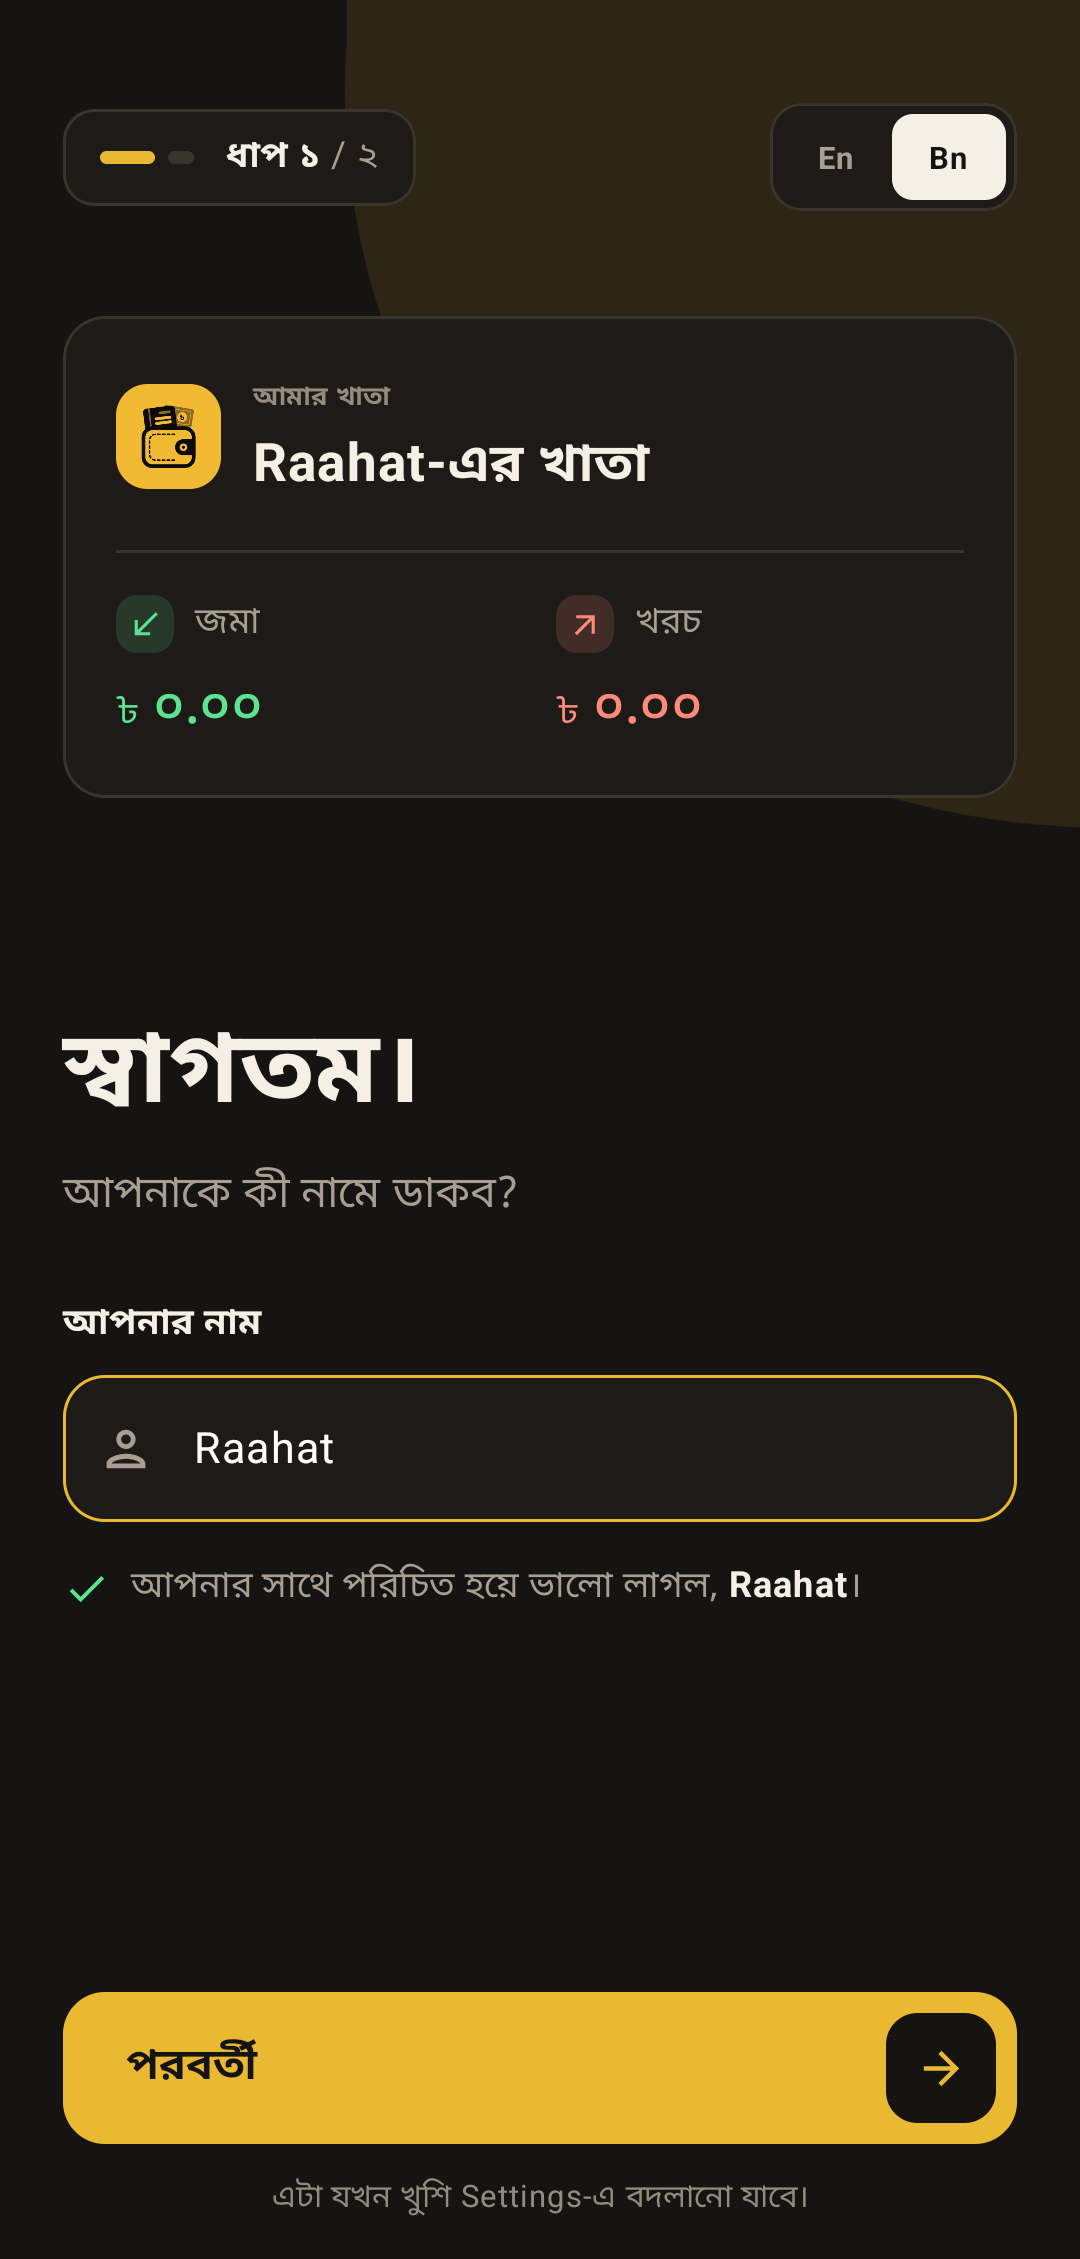
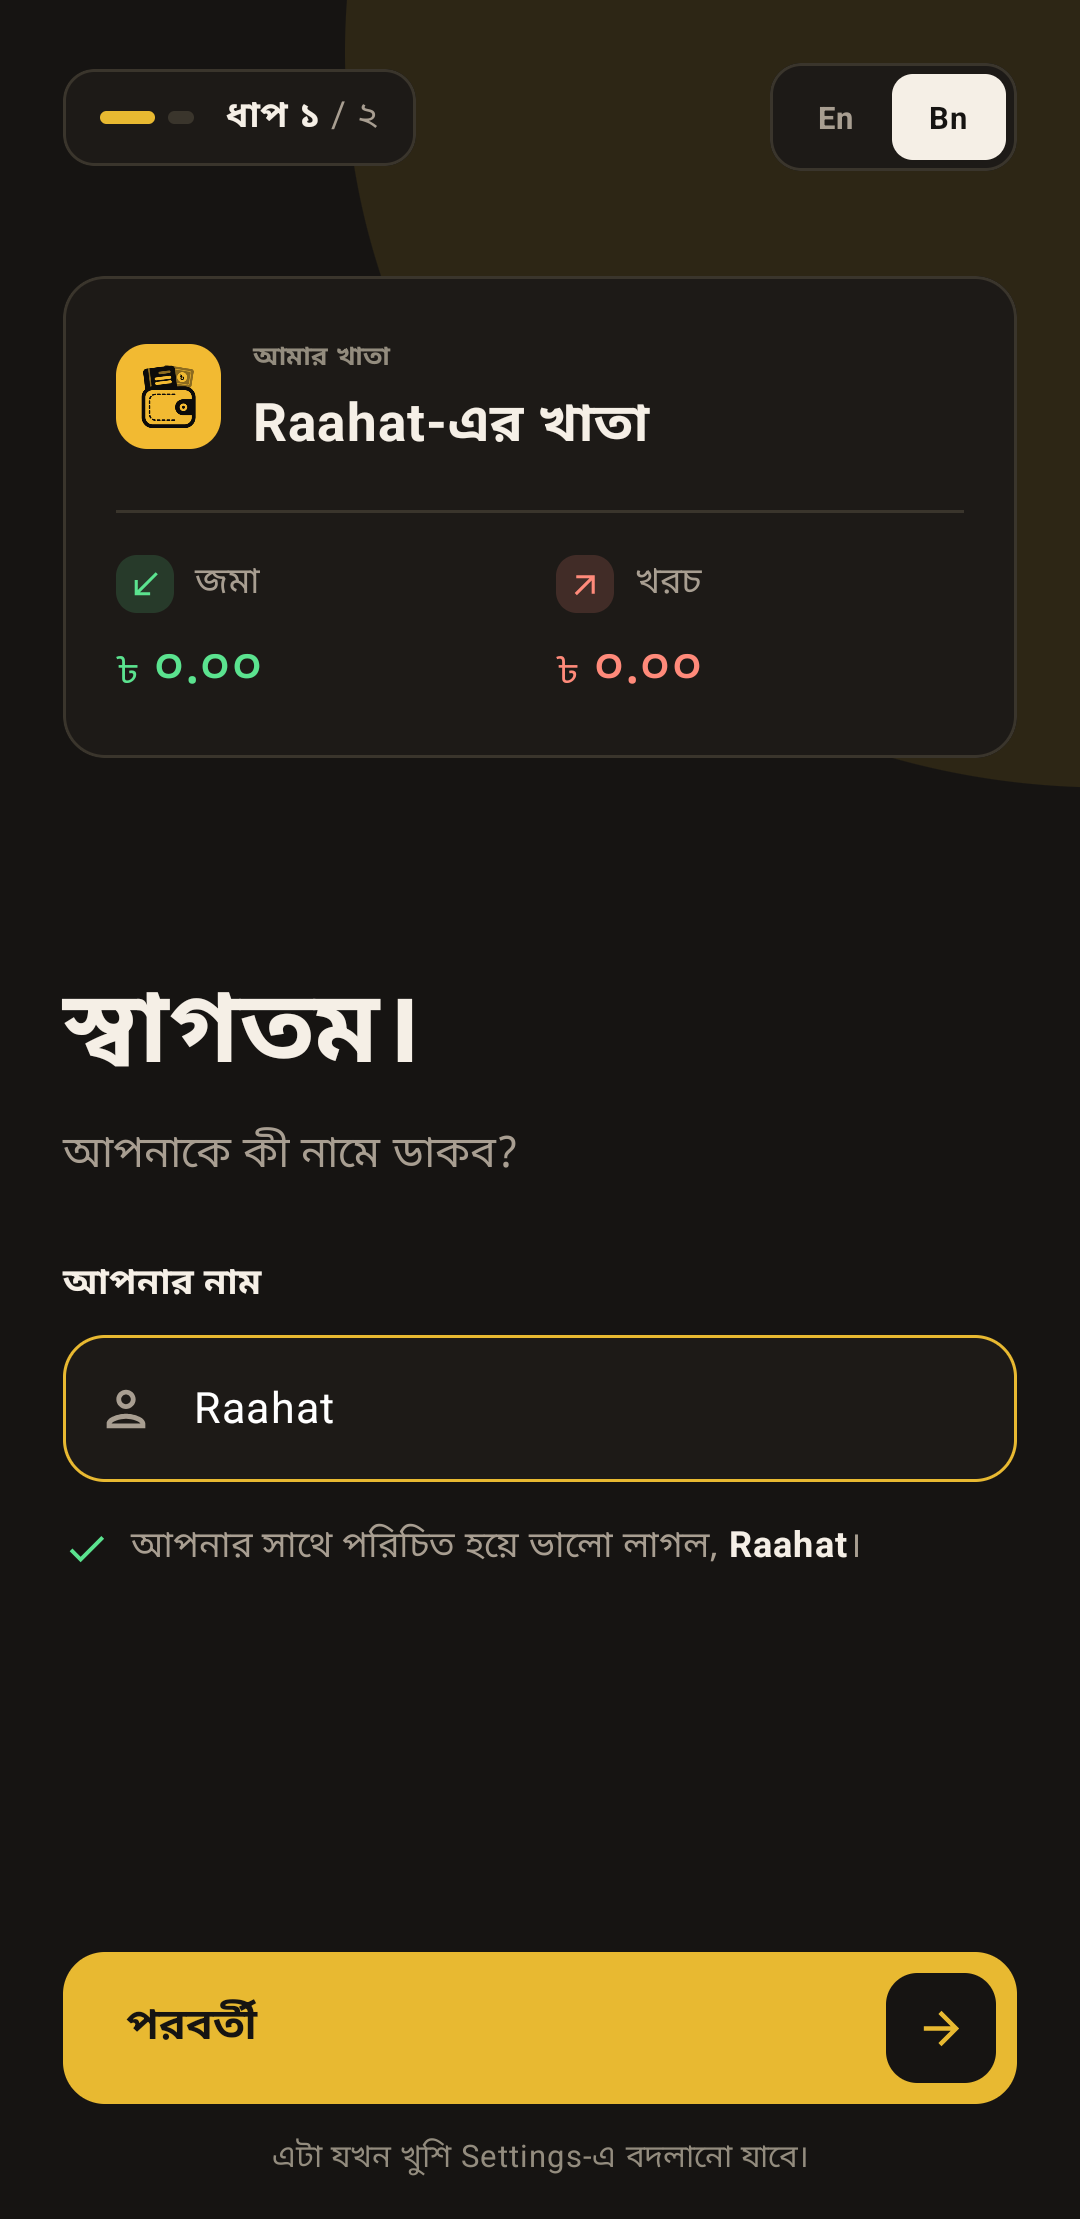
Tighter sign-up pictures, and Analytics with its money flow folded
- The install guide's step-4 pictures lose the 40px of air added above them in the
  last commit: those screens already open with space of their own, and the owner wants
  them flush. The features page keeps it.

- "Where the month went" is the Analytics screen with "Money Flow by Account" folded,
  so the categories and the largest expenses show in full. The Export button below it,
  which the gesture bar's cut left half off the bottom edge, is taken out of the
  picture -- painted over with the background just above it -- in all four versions,
  English and Bangla, light and dark. The big phone beside "Seeing where it went" is
  the same picture.

diff --git a/install.html b/install.html
@@ -168,11 +168,11 @@
       <div class="step-pics gal gal-3 gal-phones" data-gal>
         <div class="gal-track">
           <figure class="pic"><p class="pic-label"><span class="pic-letter">a</span><span data-s="s4a">Tell it your name</span></p>
-            <button type="button" class="frame zoom" data-s-label="lbOpen"><img class="s-light" src="assets/screens/step4-name-light.png" data-bn="assets/screens/step4-name-light-bn.png" alt="" loading="lazy" width="1080" height="2259"><img class="s-dark" src="assets/screens/step4-name-dark.png" data-bn="assets/screens/step4-name-dark-bn.png" alt="" loading="lazy" width="1080" height="2259"></button><figcaption data-s="cap4a"></figcaption></figure>
+            <button type="button" class="frame zoom" data-s-label="lbOpen"><img class="s-light" src="assets/screens/step4-name-light.png" data-bn="assets/screens/step4-name-light-bn.png" alt="" loading="lazy" width="1080" height="2219"><img class="s-dark" src="assets/screens/step4-name-dark.png" data-bn="assets/screens/step4-name-dark-bn.png" alt="" loading="lazy" width="1080" height="2219"></button><figcaption data-s="cap4a"></figcaption></figure>
           <figure class="pic"><p class="pic-label"><span class="pic-letter">b</span><span data-s="s4b">Create your PIN</span></p>
-            <button type="button" class="frame zoom" data-s-label="lbOpen"><img class="s-light" src="assets/screens/step4-create-light.png" data-bn="assets/screens/step4-create-light-bn.png" alt="" loading="lazy" width="1080" height="2259"><img class="s-dark" src="assets/screens/step4-create-dark.png" data-bn="assets/screens/step4-create-dark-bn.png" alt="" loading="lazy" width="1080" height="2259"></button><figcaption data-s="cap4b"></figcaption></figure>
+            <button type="button" class="frame zoom" data-s-label="lbOpen"><img class="s-light" src="assets/screens/step4-create-light.png" data-bn="assets/screens/step4-create-light-bn.png" alt="" loading="lazy" width="1080" height="2219"><img class="s-dark" src="assets/screens/step4-create-dark.png" data-bn="assets/screens/step4-create-dark-bn.png" alt="" loading="lazy" width="1080" height="2219"></button><figcaption data-s="cap4b"></figcaption></figure>
           <figure class="pic"><p class="pic-label"><span class="pic-letter">c</span><span data-s="s4c">Confirm your PIN</span></p>
-            <button type="button" class="frame zoom" data-s-label="lbOpen"><img class="s-light" src="assets/screens/step4-confirm-light.png" data-bn="assets/screens/step4-confirm-light-bn.png" alt="" loading="lazy" width="1080" height="2259"><img class="s-dark" src="assets/screens/step4-confirm-dark.png" data-bn="assets/screens/step4-confirm-dark-bn.png" alt="" loading="lazy" width="1080" height="2259"></button><figcaption data-s="cap4c"></figcaption></figure>
+            <button type="button" class="frame zoom" data-s-label="lbOpen"><img class="s-light" src="assets/screens/step4-confirm-light.png" data-bn="assets/screens/step4-confirm-light-bn.png" alt="" loading="lazy" width="1080" height="2219"><img class="s-dark" src="assets/screens/step4-confirm-dark.png" data-bn="assets/screens/step4-confirm-dark-bn.png" alt="" loading="lazy" width="1080" height="2219"></button><figcaption data-s="cap4c"></figcaption></figure>
         </div>
         <div class="gal-nav">
           <button type="button" class="gal-btn gal-prev"><svg class="ico" viewBox="0 0 24 24" aria-hidden="true"><path d="m15 5-7 7 7 7"/></svg><span data-s="galPrev">Prev</span></button>
